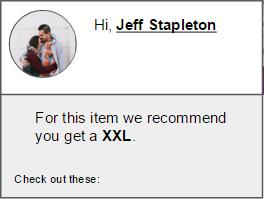
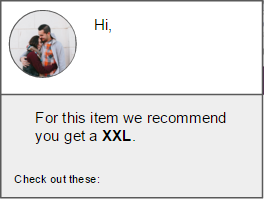
Added the ability to "change" users

Changed region(s): [[0.4242, 0.0905, 0.8182, 0.1809]]

diff --git a/dresspage.html b/dresspage.html
@@ -6,5 +6,7 @@
 <a href="todo.html"><img src='pics/recommendations.png' style="position:fixed; left:110px; top: 178px;"></a>
 <a href="todo.html"><img src='pics/settings.png' style="position:fixed; left:100px; top: 60px;"></a>
 
+<a href="changeUser.html"><img src='pics/name.png' style="position:fixed; left:125px; top: 22px;"></a>
+
 </body>
 </html>
